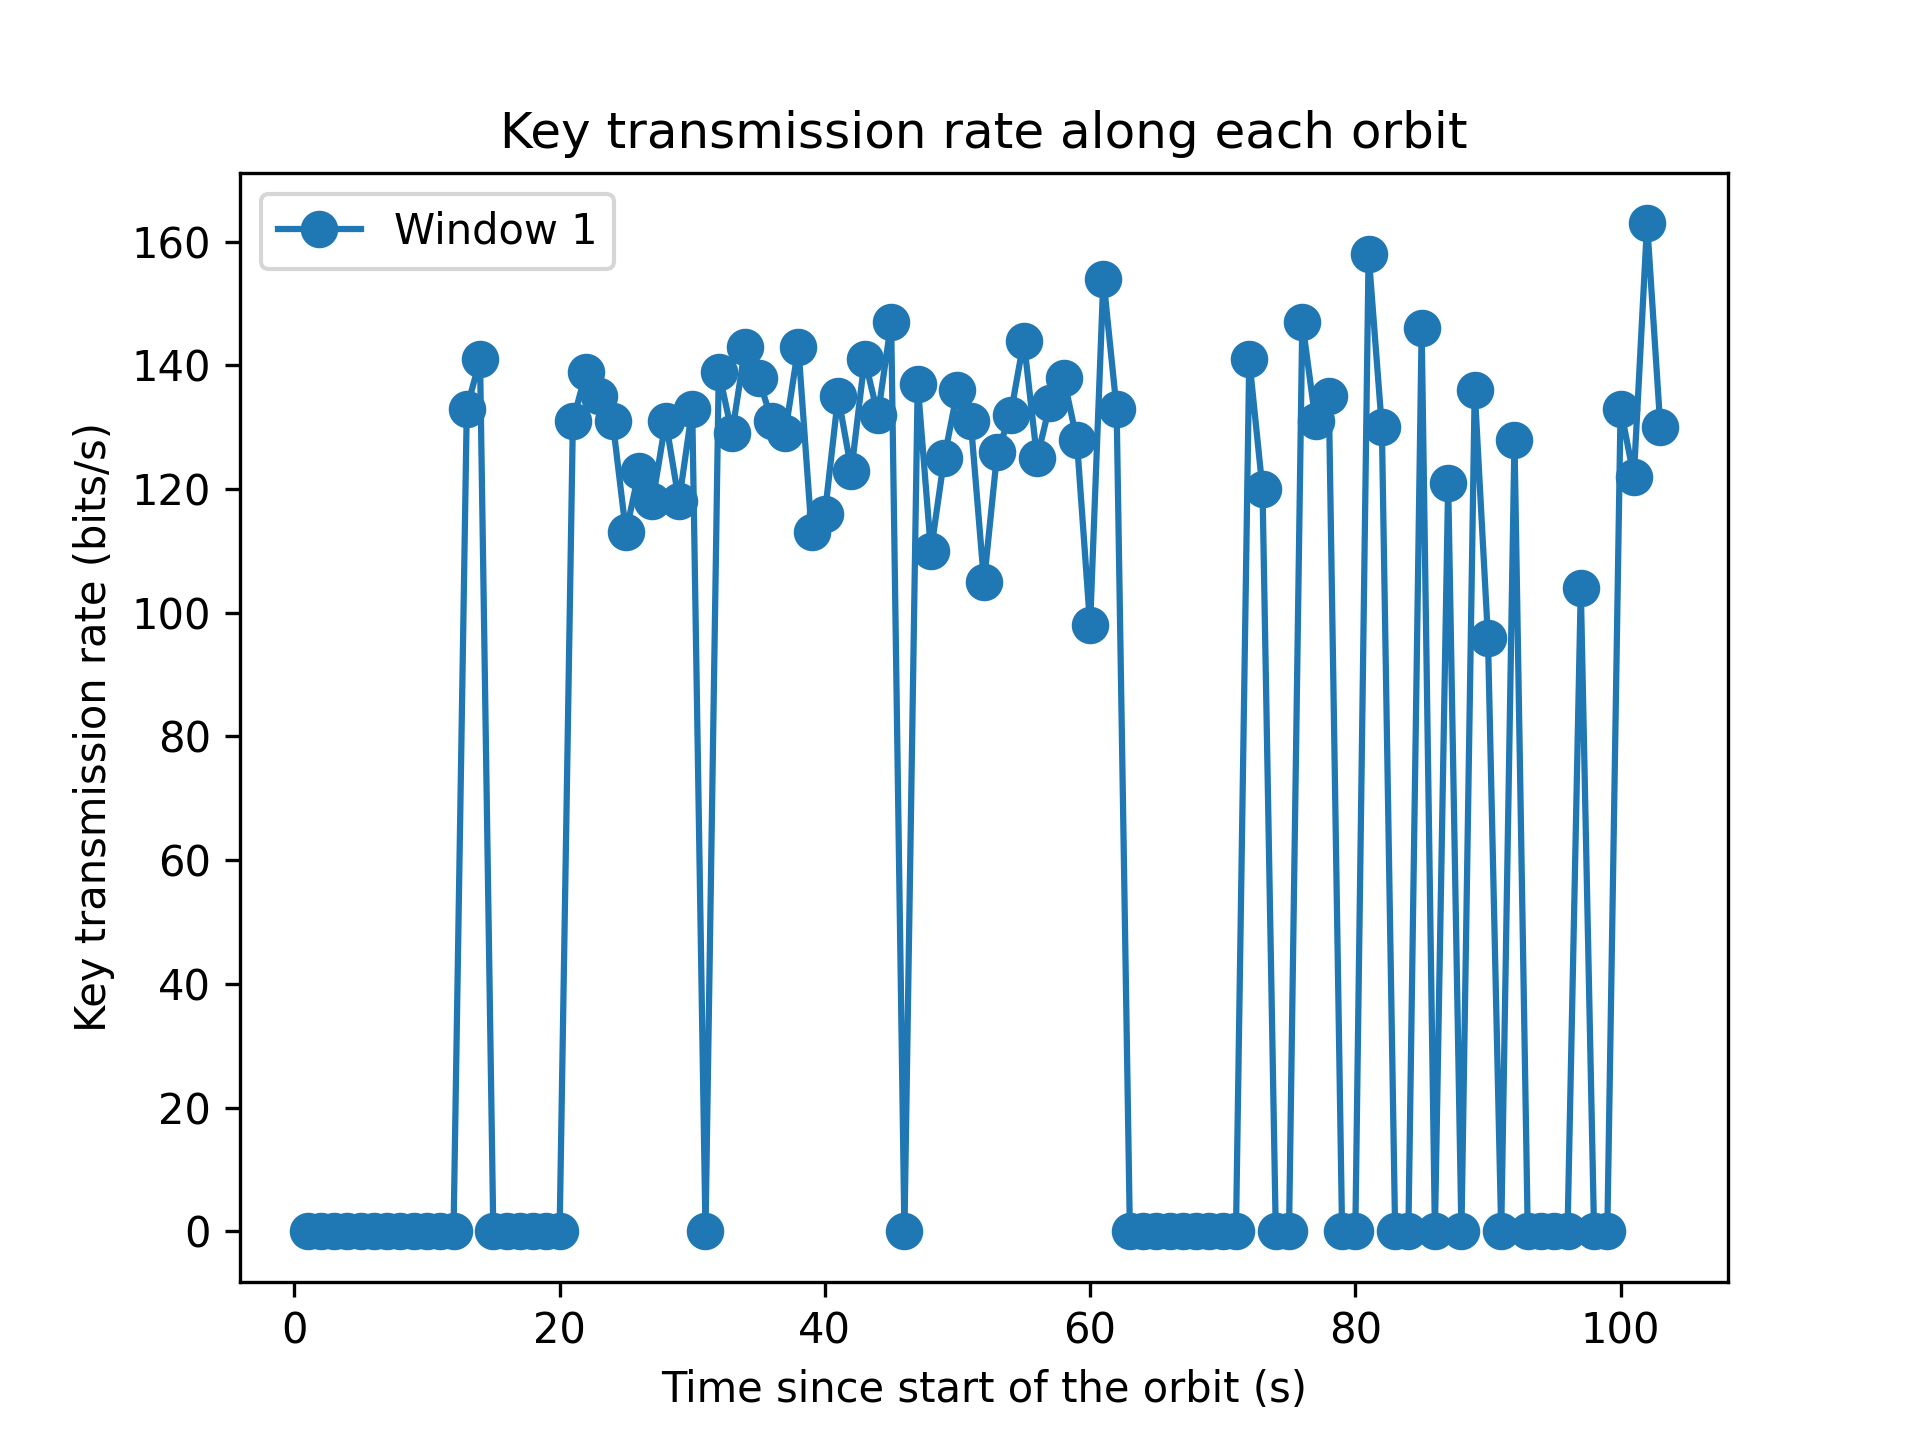
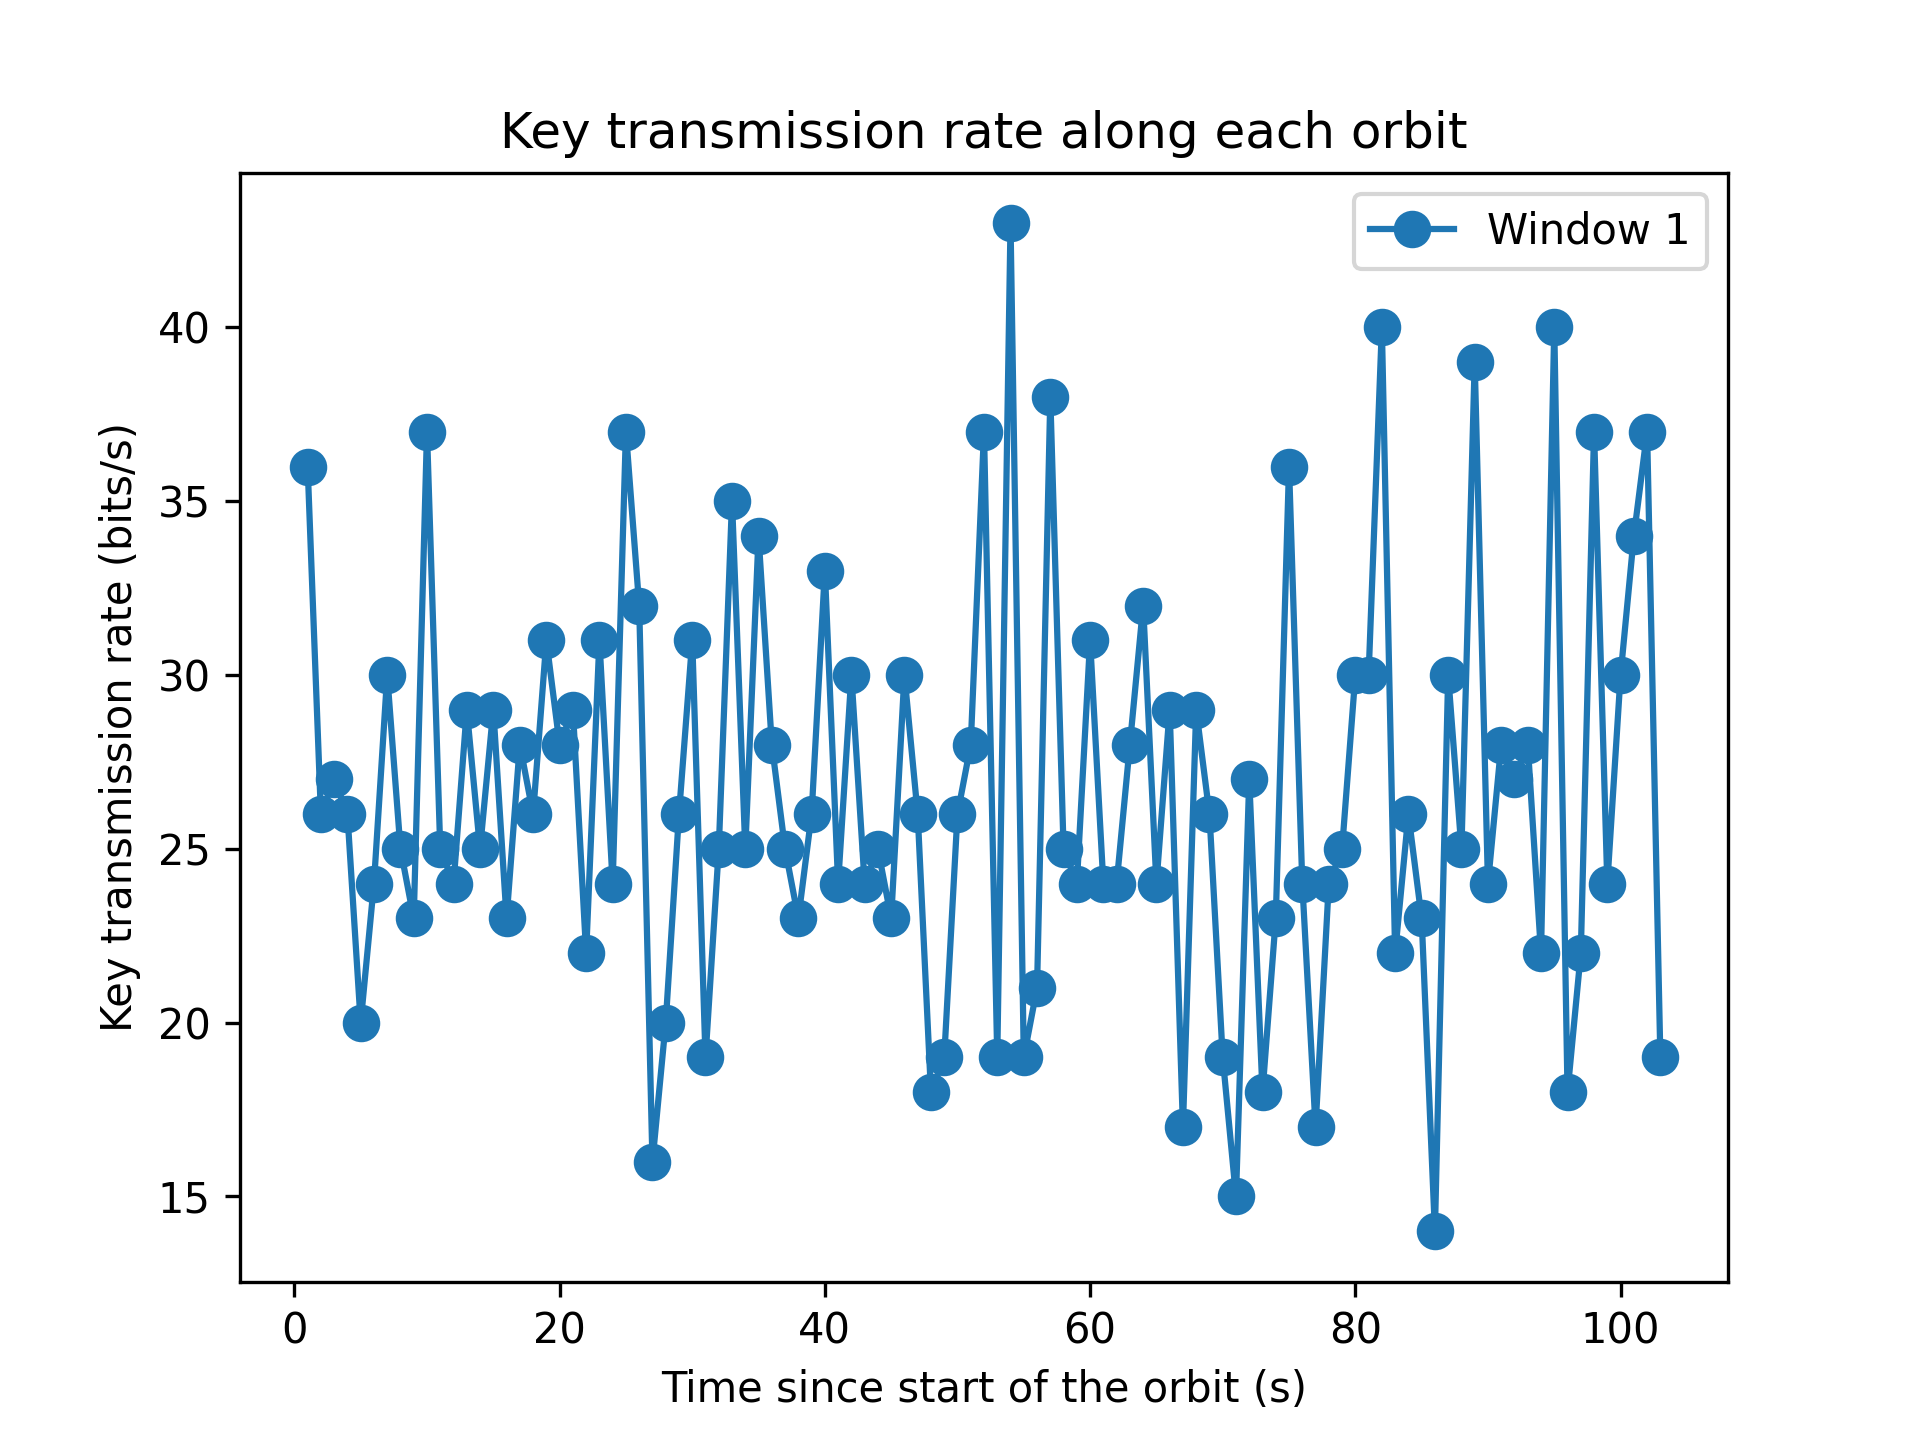
solving new problem with reading data

diff --git a/BBM92_simulation.py b/BBM92_simulation.py
@@ -398,7 +398,7 @@ def main():
   Reg_Alice=Register("BBM92_Reg_Alice")
   Reg_Bob=Register("BBM92_Reg_Bob")
 
-
+  """
   ##### importing orbits ###########
   # Carica i CSV
   df_lijiang = pd.read_csv("fucino_satellite.csv")
@@ -453,17 +453,67 @@ def main():
   Alice_orb_dict = df_lijiang.to_dict(orient="list")
   Bob_orb_dict = df_delingha.to_dict(orient="list")
 
-  print(df_delingha.head(5))
-  print(df_delingha["Time"].iloc[0])
-  print(df_delingha["Time"].iloc[1])
+#  print(df_delingha.head(5))
+#  print(df_delingha["Time"].iloc[0])
+#  print(df_delingha["Time"].iloc[1])
 
   ### rewriting the ranges in meters instead of kilometers ################
   Alice_orb_dict["Range"]=Alice_orb_dict["Range"]*10**(3)
   Alice_orb_dict["Range"]=Alice_orb_dict["Range"]*10**(3)
+  """
+
+  # Carica i CSV
+  df_lijiang = pd.read_csv("lario_satellite.csv")
+  df_delingha = pd.read_csv("fucino_satellite.csv")
+
+  df_lijiang["Source"] = "Lijiang"
+  df_delingha["Source"] = "Delingha"
+
+  # Unisci per calcolare il tempo globale
+  df_all = pd.concat([df_lijiang, df_delingha], ignore_index=True)
+
+  def to_datetime(row):
+      return datetime.strptime(
+          row["Date"] + " " + row["Time"],
+          "%d %b %Y %H:%M:%S.%f"
+      )
+
+  df_all["Datetime"] = df_all.apply(to_datetime, axis=1)
+
+  t0 = df_all["Datetime"].min()
+  df_all["SecondsFromStart"] = (df_all["Datetime"] - t0).dt.total_seconds()
+
+  # Ora ri-separa, SENZA altri merge
+  df_lijiang = df_all[df_all["Source"] == "Lijiang"].copy()
+  df_delingha = df_all[df_all["Source"] == "Delingha"].copy()
+
+  def atmospheric_attenuation_1550(elev_deg, alpha0_db=0.1):
+      elev_rad = np.deg2rad(np.abs(elev_deg))
+      airmass = 1.0 / np.sin(elev_rad)
+      return alpha0_db * airmass
+
+  df_lijiang["AtmosphericLoss_dB"] = df_lijiang["Elevation"].apply(atmospheric_attenuation_1550)
+  df_delingha["AtmosphericLoss_dB"] = df_delingha["Elevation"].apply(atmospheric_attenuation_1550)
+
+  Alice_orb_dict = df_lijiang.to_dict(orient="list")
+  Bob_orb_dict   = df_delingha.to_dict(orient="list")
+
+  Alice_orb_dict["Range"] = np.array(Alice_orb_dict["Range"]) * 10**3
+  Bob_orb_dict["Range"]   = np.array(Bob_orb_dict["Range"])   * 10**3
+
+
+
+
+
+
+
+
+
+
 
 
   ###rewriting atmospheric loss in db per meter ####
-  att_factor= 0 #10**(0)
+  att_factor= 1 #10**(0)
   for k in range(len(Bob_orb_dict["AtmosphericLoss_dB"])):
     Bob_orb_dict["AtmosphericLoss_dB"][k]=(Bob_orb_dict["AtmosphericLoss_dB"][k]/Bob_orb_dict["Range"][k])*att_factor
   for k in range(len(Alice_orb_dict["AtmosphericLoss_dB"])):
@@ -507,7 +557,7 @@ def main():
 
   start=[] #times in seconds at which the emitter should start emitting as the satellite can see both of the receivers
   stop=[] #times in seconds at which the emitter should stop emitting as the satellite cannot see at least one of the receivers
-  start.append(max(Alice_orb_dict["SecondsFromStart"][0], Alice_orb_dict["SecondsFromStart"][0])) #instant of coincident visibility
+  start.append(max(Alice_orb_dict["SecondsFromStart"][0], Bob_orb_dict["SecondsFromStart"][0])) #instant of coincident visibility
   start_date=[] #times in date format at which the emitter should start emitting as the satellite can see both of the receivers
   stop_date=[] #times in date format at which the emitter should stop emitting as the satellite cannot see at least one of the receivers
   start_date.append(max(Alice_orb_dict["Time"][0], Alice_orb_dict["Time"][0])) #instant of coincident visibility
@@ -656,11 +706,12 @@ def main():
   time_for_off=0
   a=0
   b=0
-  print(len(Alice_orb_dict["SecondsFromStart"]),len(Bob_orb_dict["SecondsFromStart"]) )
+#  print(len(Alice_orb_dict["SecondsFromStart"]),len(Bob_orb_dict["SecondsFromStart"]) )
   while time_for_off<=sim_time and a<len(Alice_orb_dict["SecondsFromStart"]) and b<len(Bob_orb_dict["SecondsFromStart"]):
 #    print(Alice_orb_dict["SecondsFromStart"][a], "   ", Bob_orb_dict["SecondsFromStart"][b], a, "   ", b)
     if Alice_orb_dict["SecondsFromStart"][a]<=time_for_off and Bob_orb_dict["SecondsFromStart"][b]<=time_for_off:
       offsets["Distance"].append((Alice_orb_dict["Range"][a]-Bob_orb_dict["Range"][b])/LS)
+#      print( Alice_orb_dict["Range"][a], "  ", Bob_orb_dict["Range"][b])
       offsets["Update_time"].append(Alice_orb_dict["SecondsFromStart"][a]*10**(12)) ###converting only the offsets in picosecond
       a=a+1
       b=b+1
@@ -684,13 +735,14 @@ def main():
 
 
 #  for p in range(30):
-#    print(results_Alice["Time"][p]*10**(-12))
+#    print(results_Alice["Time"][p]*10**(-12)- results_Bob["Time"][p]*10**(-12), results_Alice["Time"][p]*10**(-12))
+
 
 #  for l in range(len(offsets["Update_time"])):
 #    print(offsets["Update_time"][l]*10**(-12), "   ", offsets["Distance"][l])
 
   ### Defining parameters and arrays for the plots and post processing ####
-  research_window=10**(200)
+  research_window=10**(20)
   average_QBERS=np.zeros(int(len(start)))
   average_KTR=np.zeros(int(len(start)))
   upd_time_array = [[] for _ in range(len(start))]
@@ -756,13 +808,13 @@ def main():
     for h in range(len(offsets["Distance"])-1):
       if offsets["Update_time"][h]<=start[w] and  offsets["Update_time"][h+1]>=start[w] :
         offset=offsets["Distance"][h]
-        k=h+1
+        k=h+2
         break
     if offset==0:
       print("Problem with individuation of the offset")
 
 
-#    print("Last window length is",(results_Bob["Time"][stop_Bob_pp]- stop[w])*10**(-12))
+
     #### recovering the coincident measurements #####
     for i in range (start_Alice_pp, stop_Alice_pp, 1):
 
@@ -770,7 +822,7 @@ def main():
       if k<len(offsets["Update_time"]):
         if offsets["Update_time"][k]<=results_Alice["Time"][i]:
 #          print(k, "   ", len(offsets["Update_time"]) )
-          offset=offsets["Distance"][k-1]
+          offset=offsets["Distance"][k]
           upd_time_array[w].append(offsets["Update_time"][k])
           if (offsets["Update_time"][k]-offsets["Update_time"][k-1])==0:
             print("Problem with kr at: ", offsets["Update_time"][k], "   " ,offsets["Update_time"][k-1])
@@ -799,7 +851,8 @@ def main():
 
       for j in range(start_Bob_pp,stop_Bob_pp,1):
 
-        if np.abs(results_Alice["Time"][i]-results_Bob["Time"][j]-offset)<=2*time_resolution and results_Alice["Basis"][i]==results_Bob["Basis"][j]:      
+        if np.abs(results_Alice["Time"][i]-results_Bob["Time"][j]-offset)<=2*time_resolution and results_Alice["Basis"][i]==results_Bob["Basis"][j]:
+#          print(results_Alice["Time"][i], "   ", offsets["Update_time"][k])
           coincident_counts=coincident_counts+1
           Alice_raw_key.append(results_Alice["Det_result"][i])
           Bob_raw_key.append(results_Bob["Det_result"][j])
